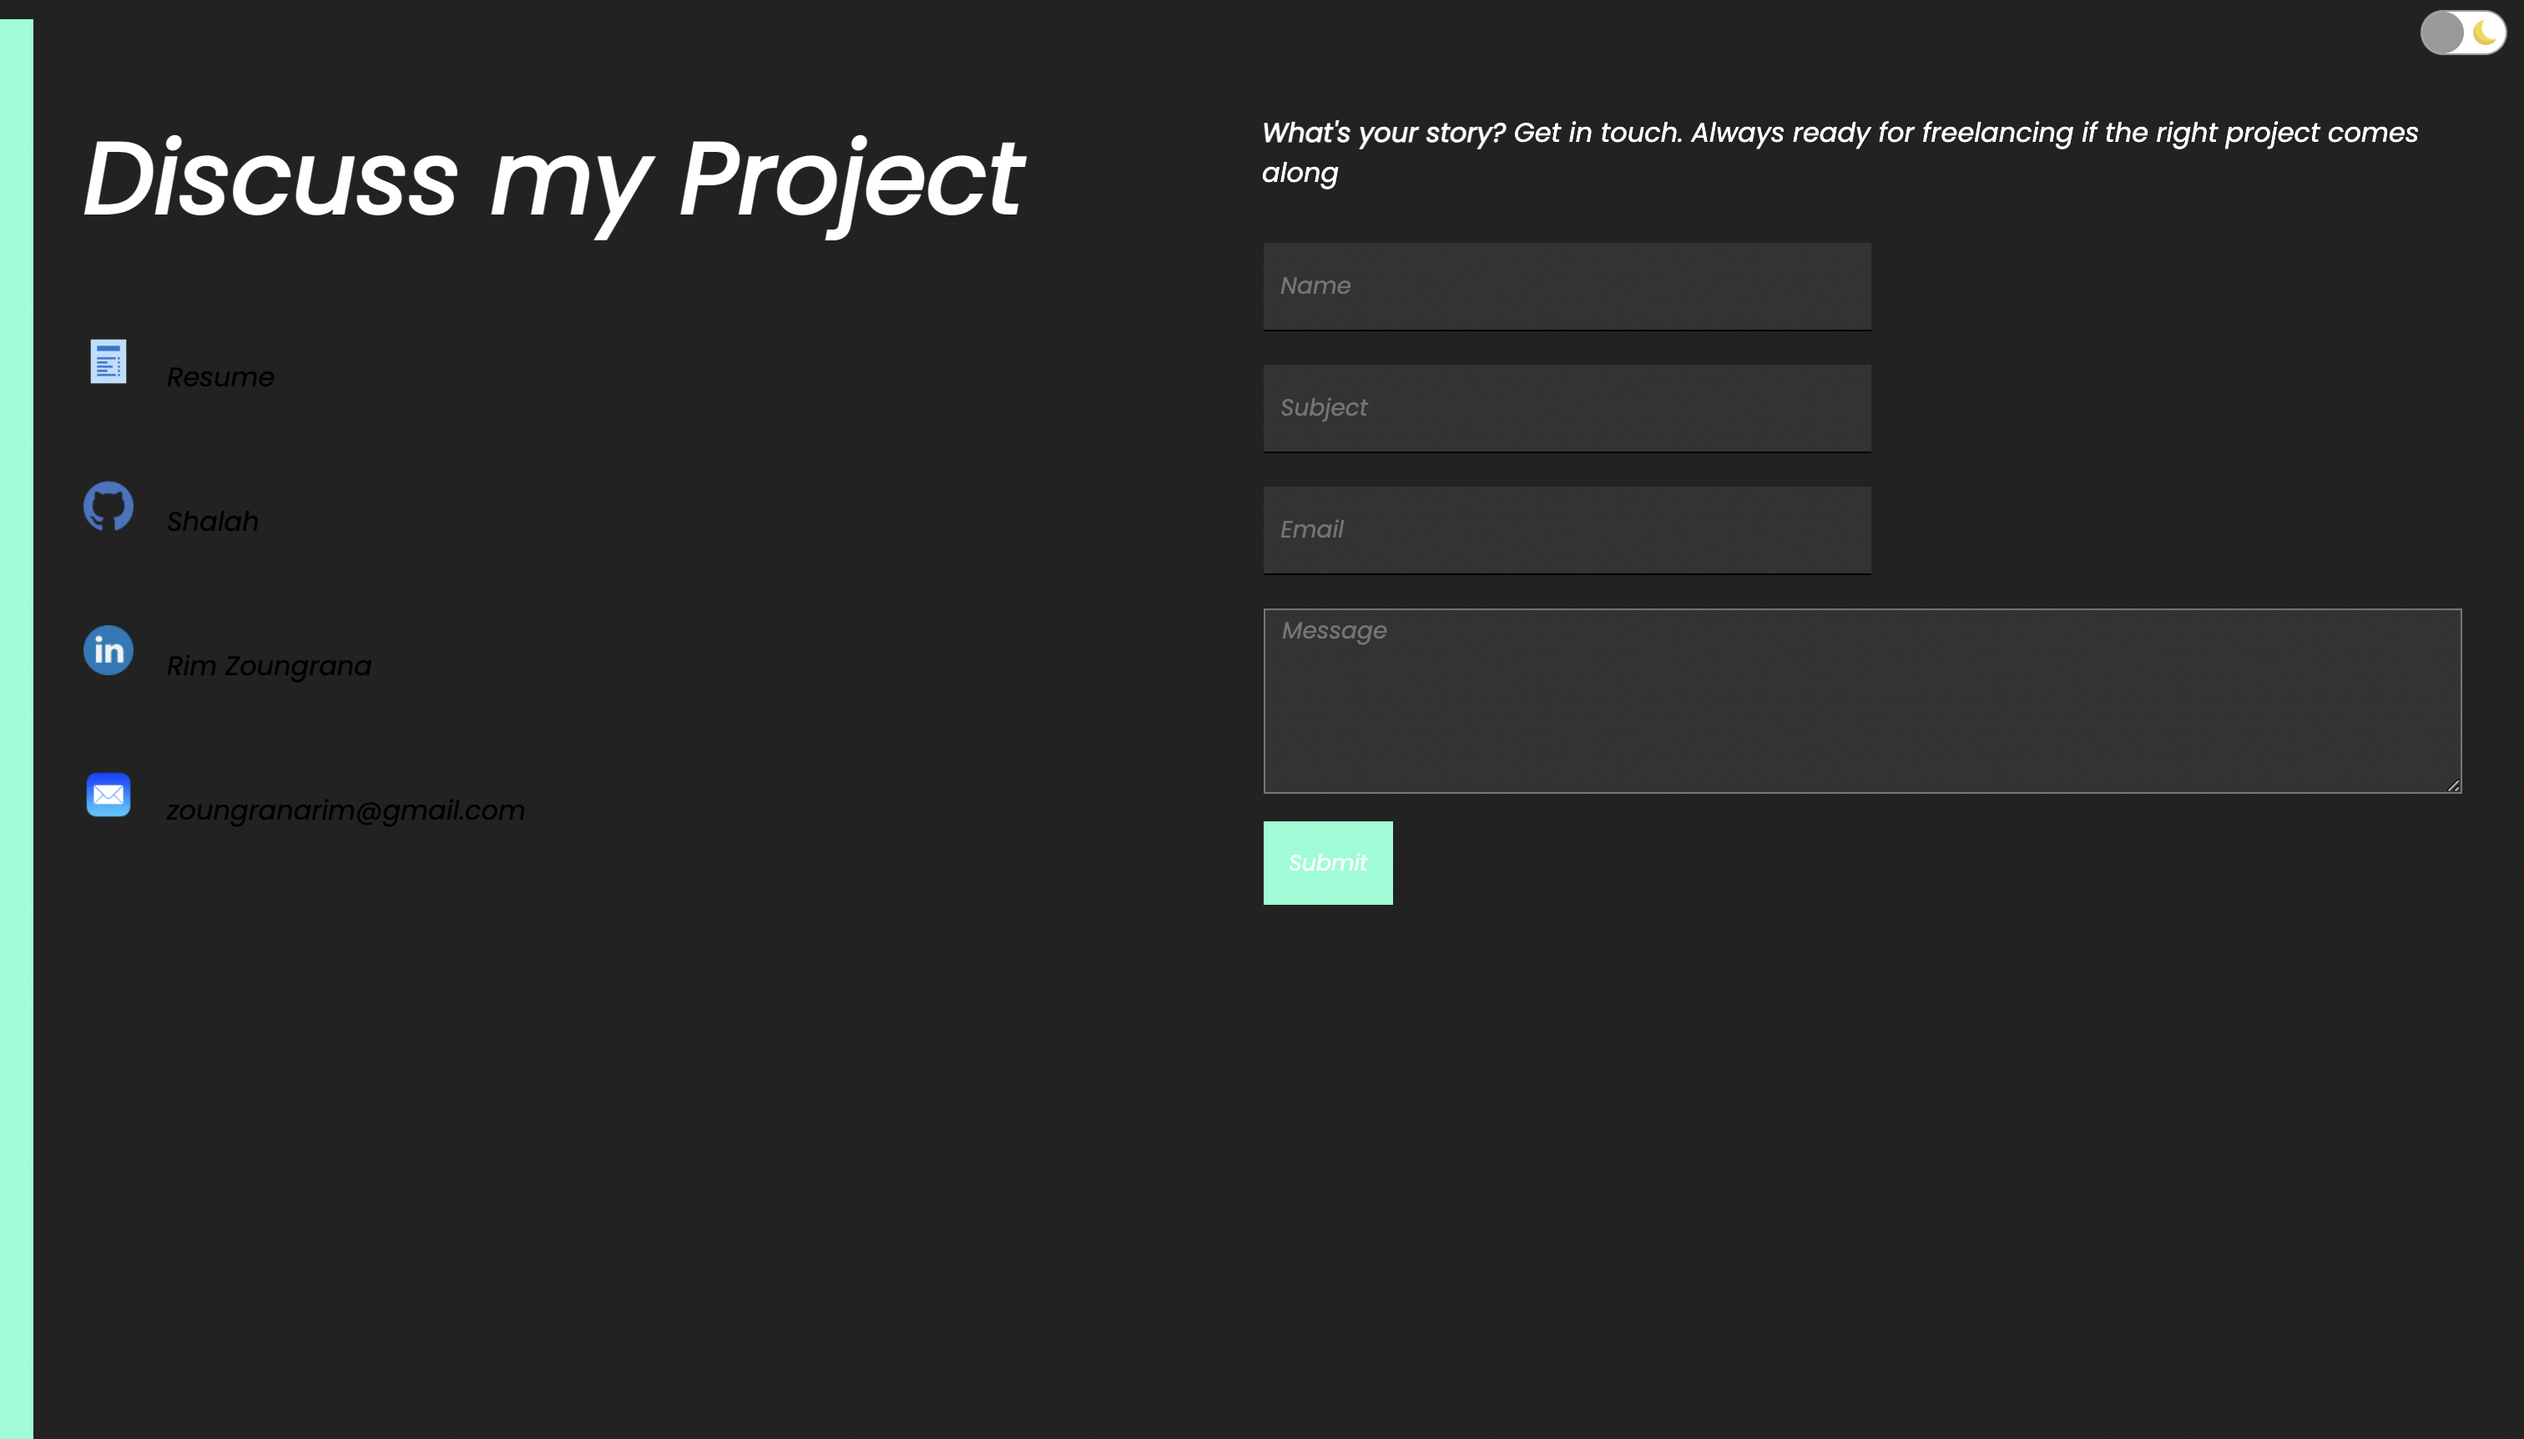
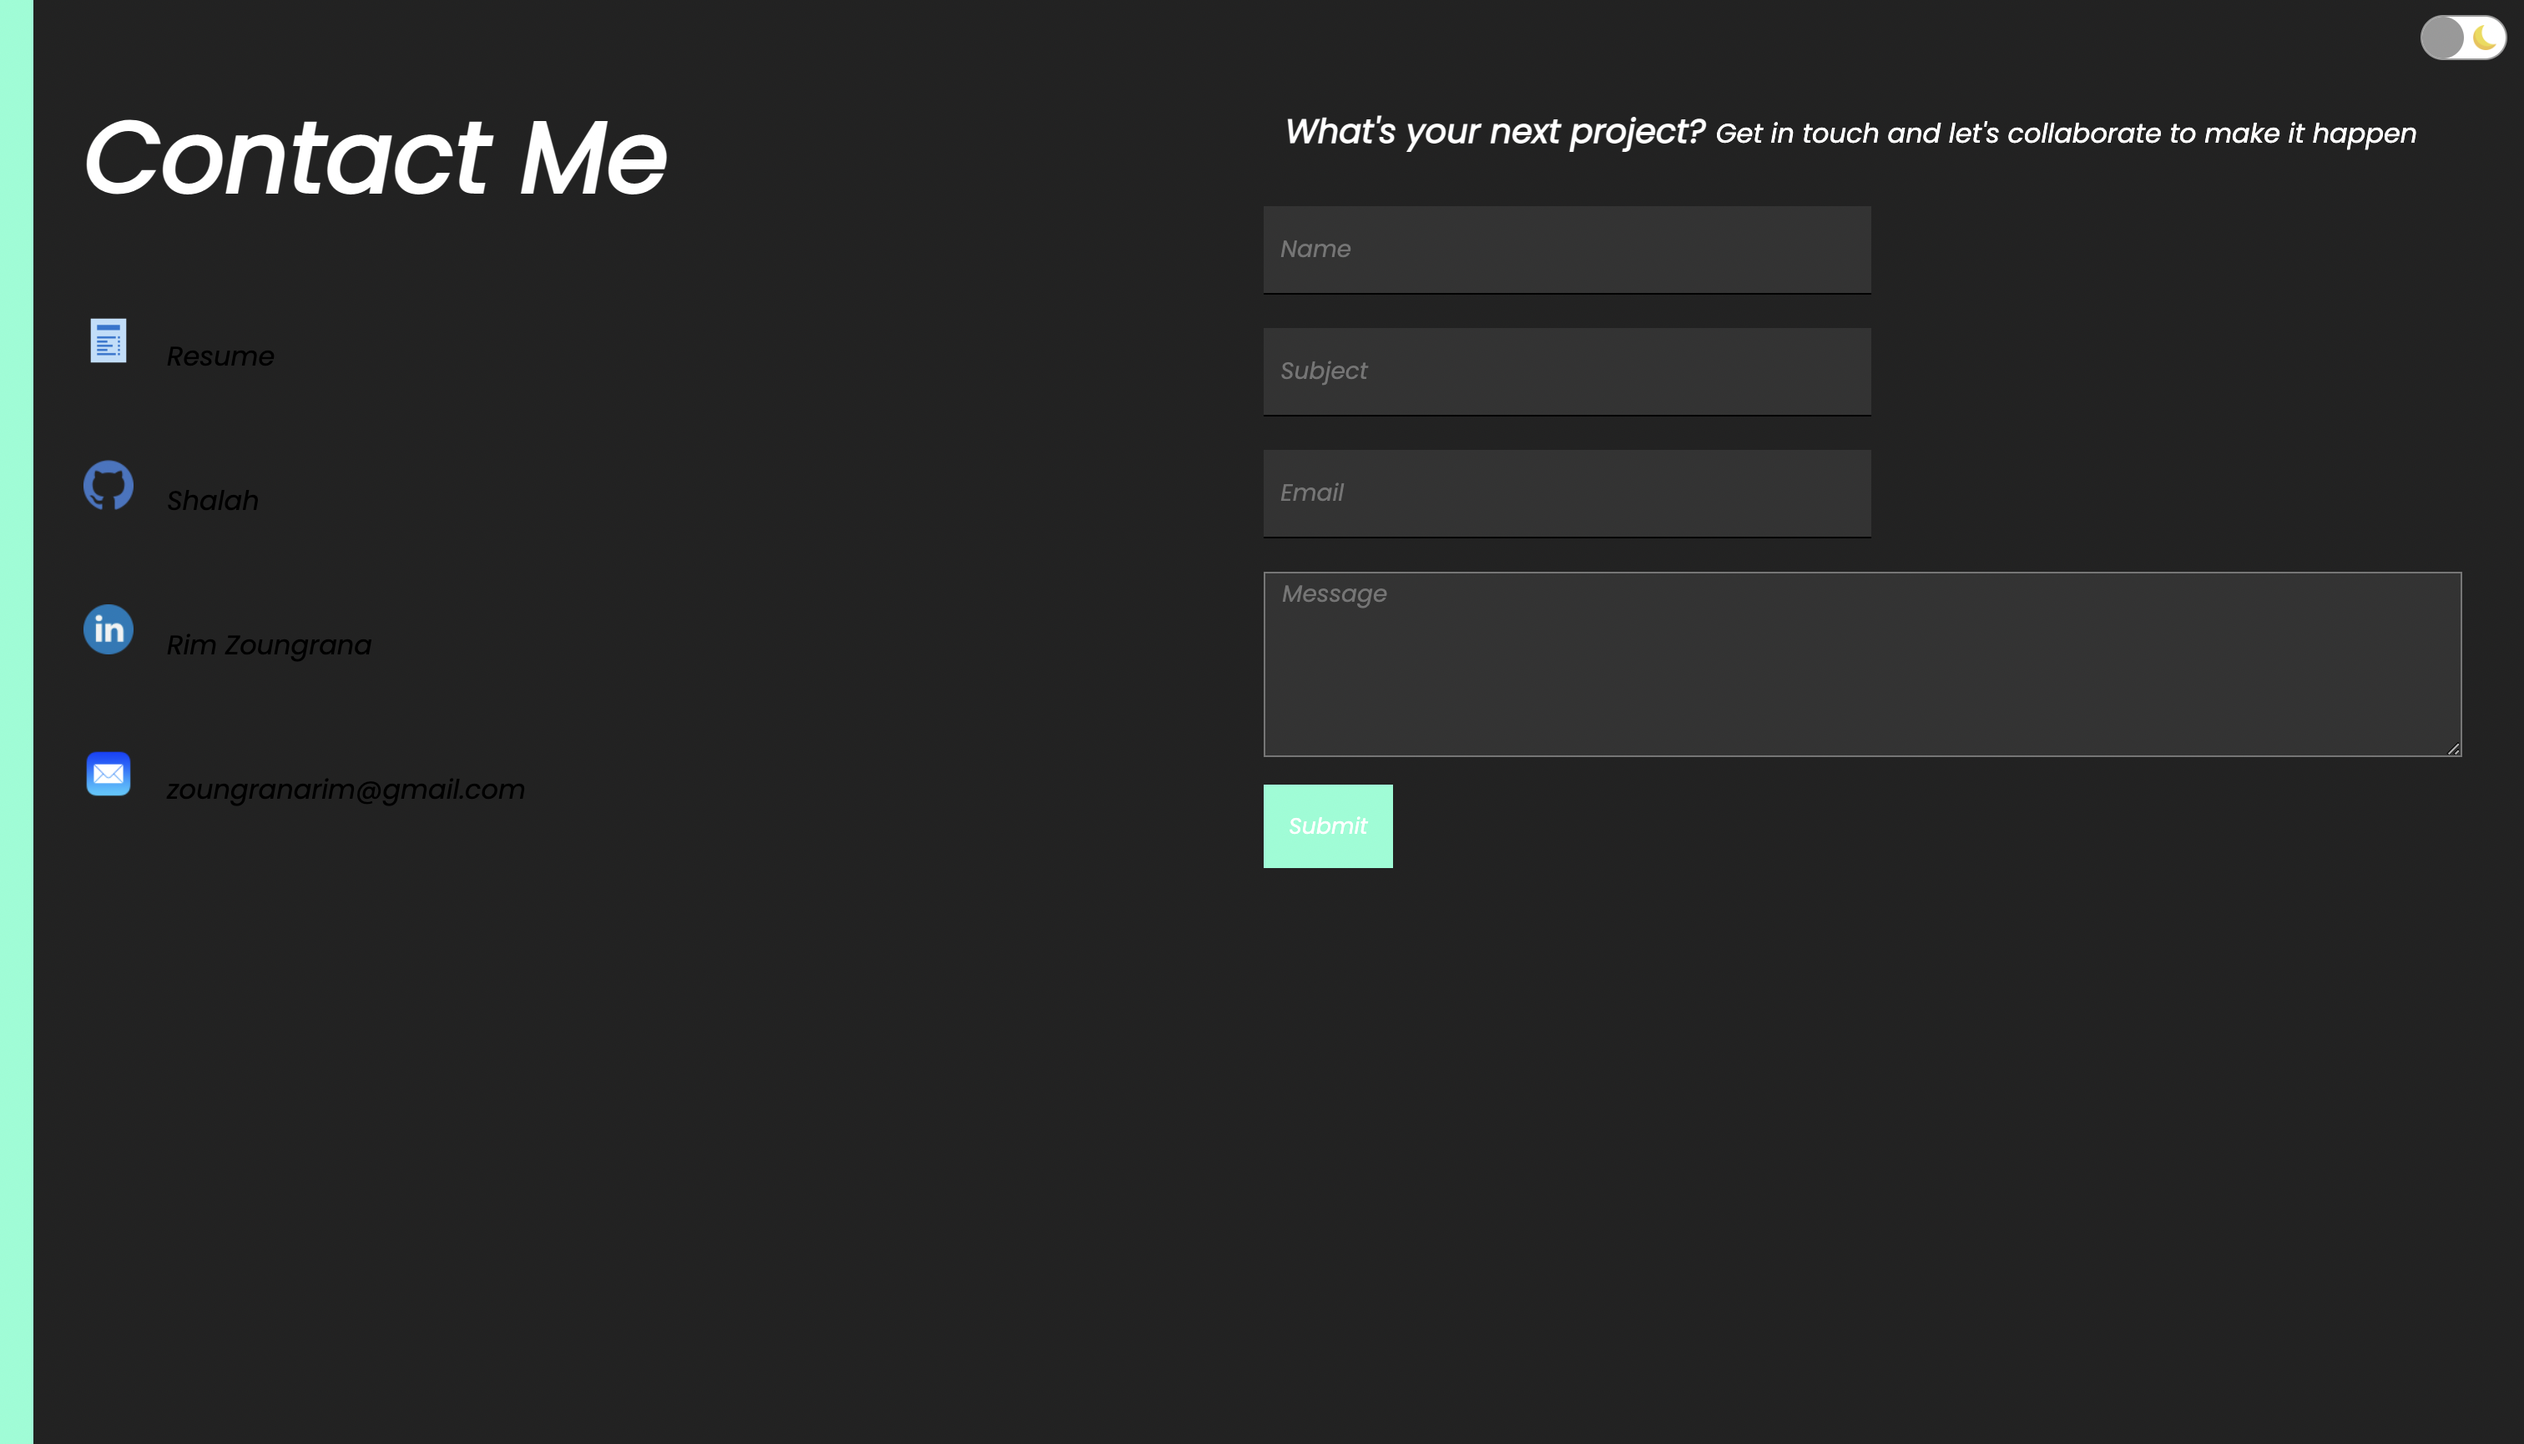
Changed a readme screenshot, changed some styling and words

diff --git a/src/components/contact/Contact.jsx b/src/components/contact/Contact.jsx
@@ -36,7 +36,7 @@ const Contact = () => {
         <div className="c-wrapper">
             <div className="c-left">
                 <h1 className="c-title"> 
-                    Discuss my Project 
+                    Contact Me
                 </h1>
                 <div className="c-info">
                     <div className="c-info-item">
@@ -94,7 +94,7 @@ const Contact = () => {
 
             <div className="c-right">
                 <p className="c-desc">
-                    <b> What's your story? </b> Get in touch. Always ready for freelancing if the right project comes along
+                    <b> What's your next project? </b> Get in touch and let's collaborate to make it happen
                 </p>
                 <form ref={formRef} onSubmit={handleSubmit}>
                     <input style={{backgroundColor: darkMode && '#333'}} type='text' placeholder='Name' name='user_name' />
@@ -103,7 +103,7 @@ const Contact = () => {
                     <textarea style={{backgroundColor: darkMode && '#333'}} rows='5' placeholder='Message' name='message' />
                     <button> Submit </button>
                     {done && 'Thank you ...'}
-                </form>
+                </form> 
             </div>
         </div>
     </div>

diff --git a/src/components/intro/intro.css b/src/components/intro/intro.css
@@ -65,7 +65,7 @@ it is divided by 4*/
     height: 50px;
     font-size: 30px;
     font-weight: bold;
-    color: greenyellow;
+    color: aquamarine;
     display: flex; 
     align-items: center;
 }

diff --git a/src/components/contact/contact.css b/src/components/contact/contact.css
@@ -58,8 +58,9 @@ a:link, a:visited, a:hover, a:active{
     /* border: 1px green solid; */
 }
 
-.c-desc{
-    font-weight: 200;
+.c-desc b{
+    
+font-size: 20px;
 }
 
 form{
